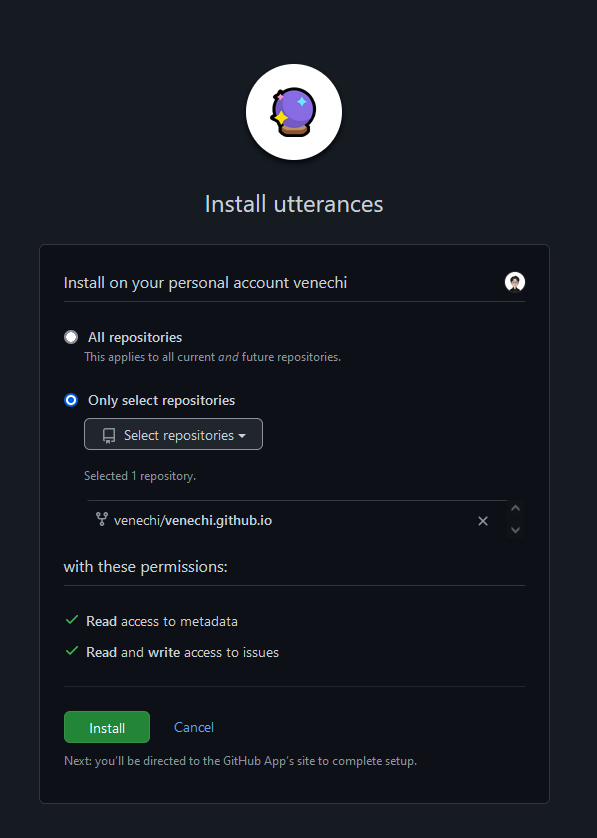
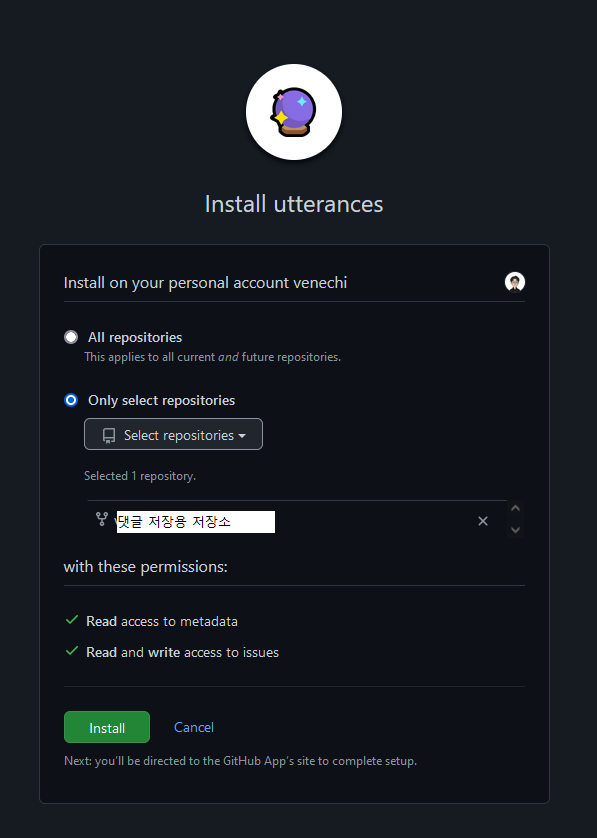
comment sys re-applied & [re-post] a002

Changed region(s): [[0.1809, 0.5895, 0.4824, 0.6516]]

diff --git a/_layouts/post.html b/_layouts/post.html
@@ -135,7 +135,7 @@ layout: default
     </div>
     <script
       src="https://utteranc.es/client.js"
-      repo="venechi/venechi.github.io"
+      repo="venechi/blogComments"
       issue-term="pathname"
       theme="preferred-color-scheme"
       crossorigin="anonymous"

diff --git a/_posts/2021-07-28-a002.md b/_posts/2021-07-28-a002.md
@@ -27,7 +27,7 @@ tags: [github pages, utterances]     # TAG names should always be lowercase
 
       
 
-먼저, github repo 설정에 가서, 저장소가 public인지 확인한다. (Chripy 테마처럼 다른 저장소에서 fork해 온 경우, public이므로 확인할 필요 없다.)
+먼저 댓글 저장용 public 저장소를 새로 생성해 준다
 
       
 
